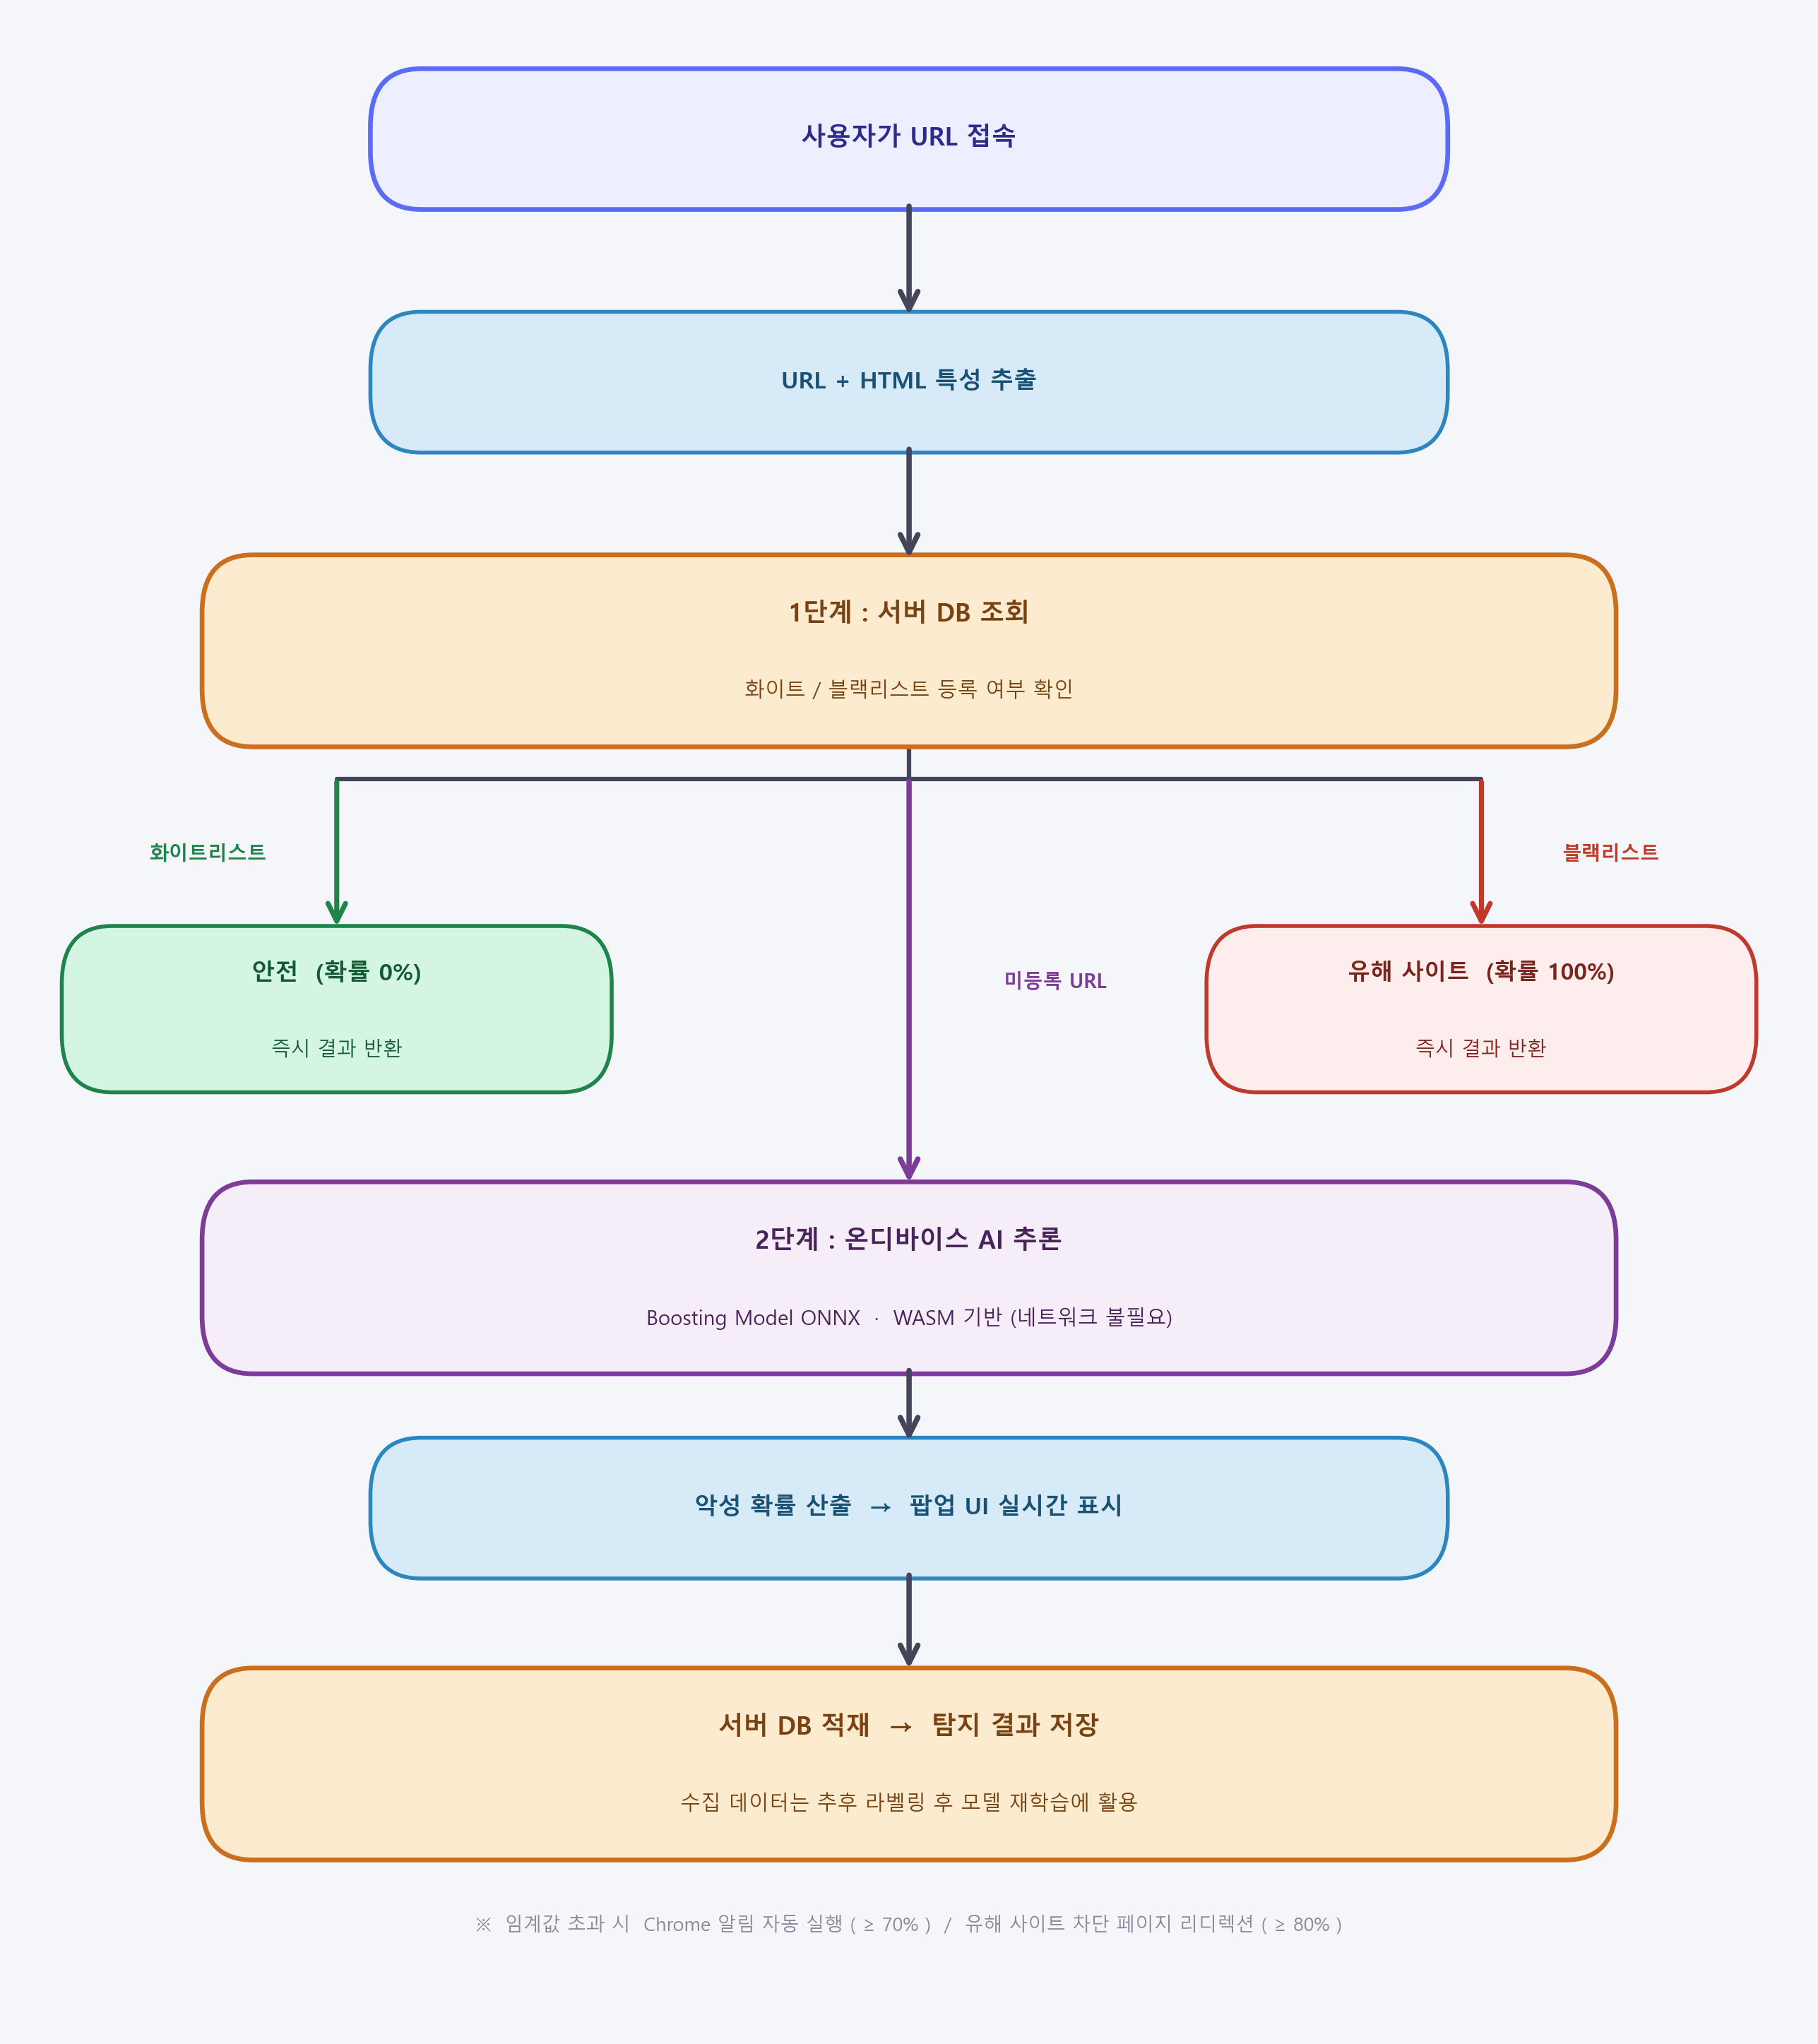
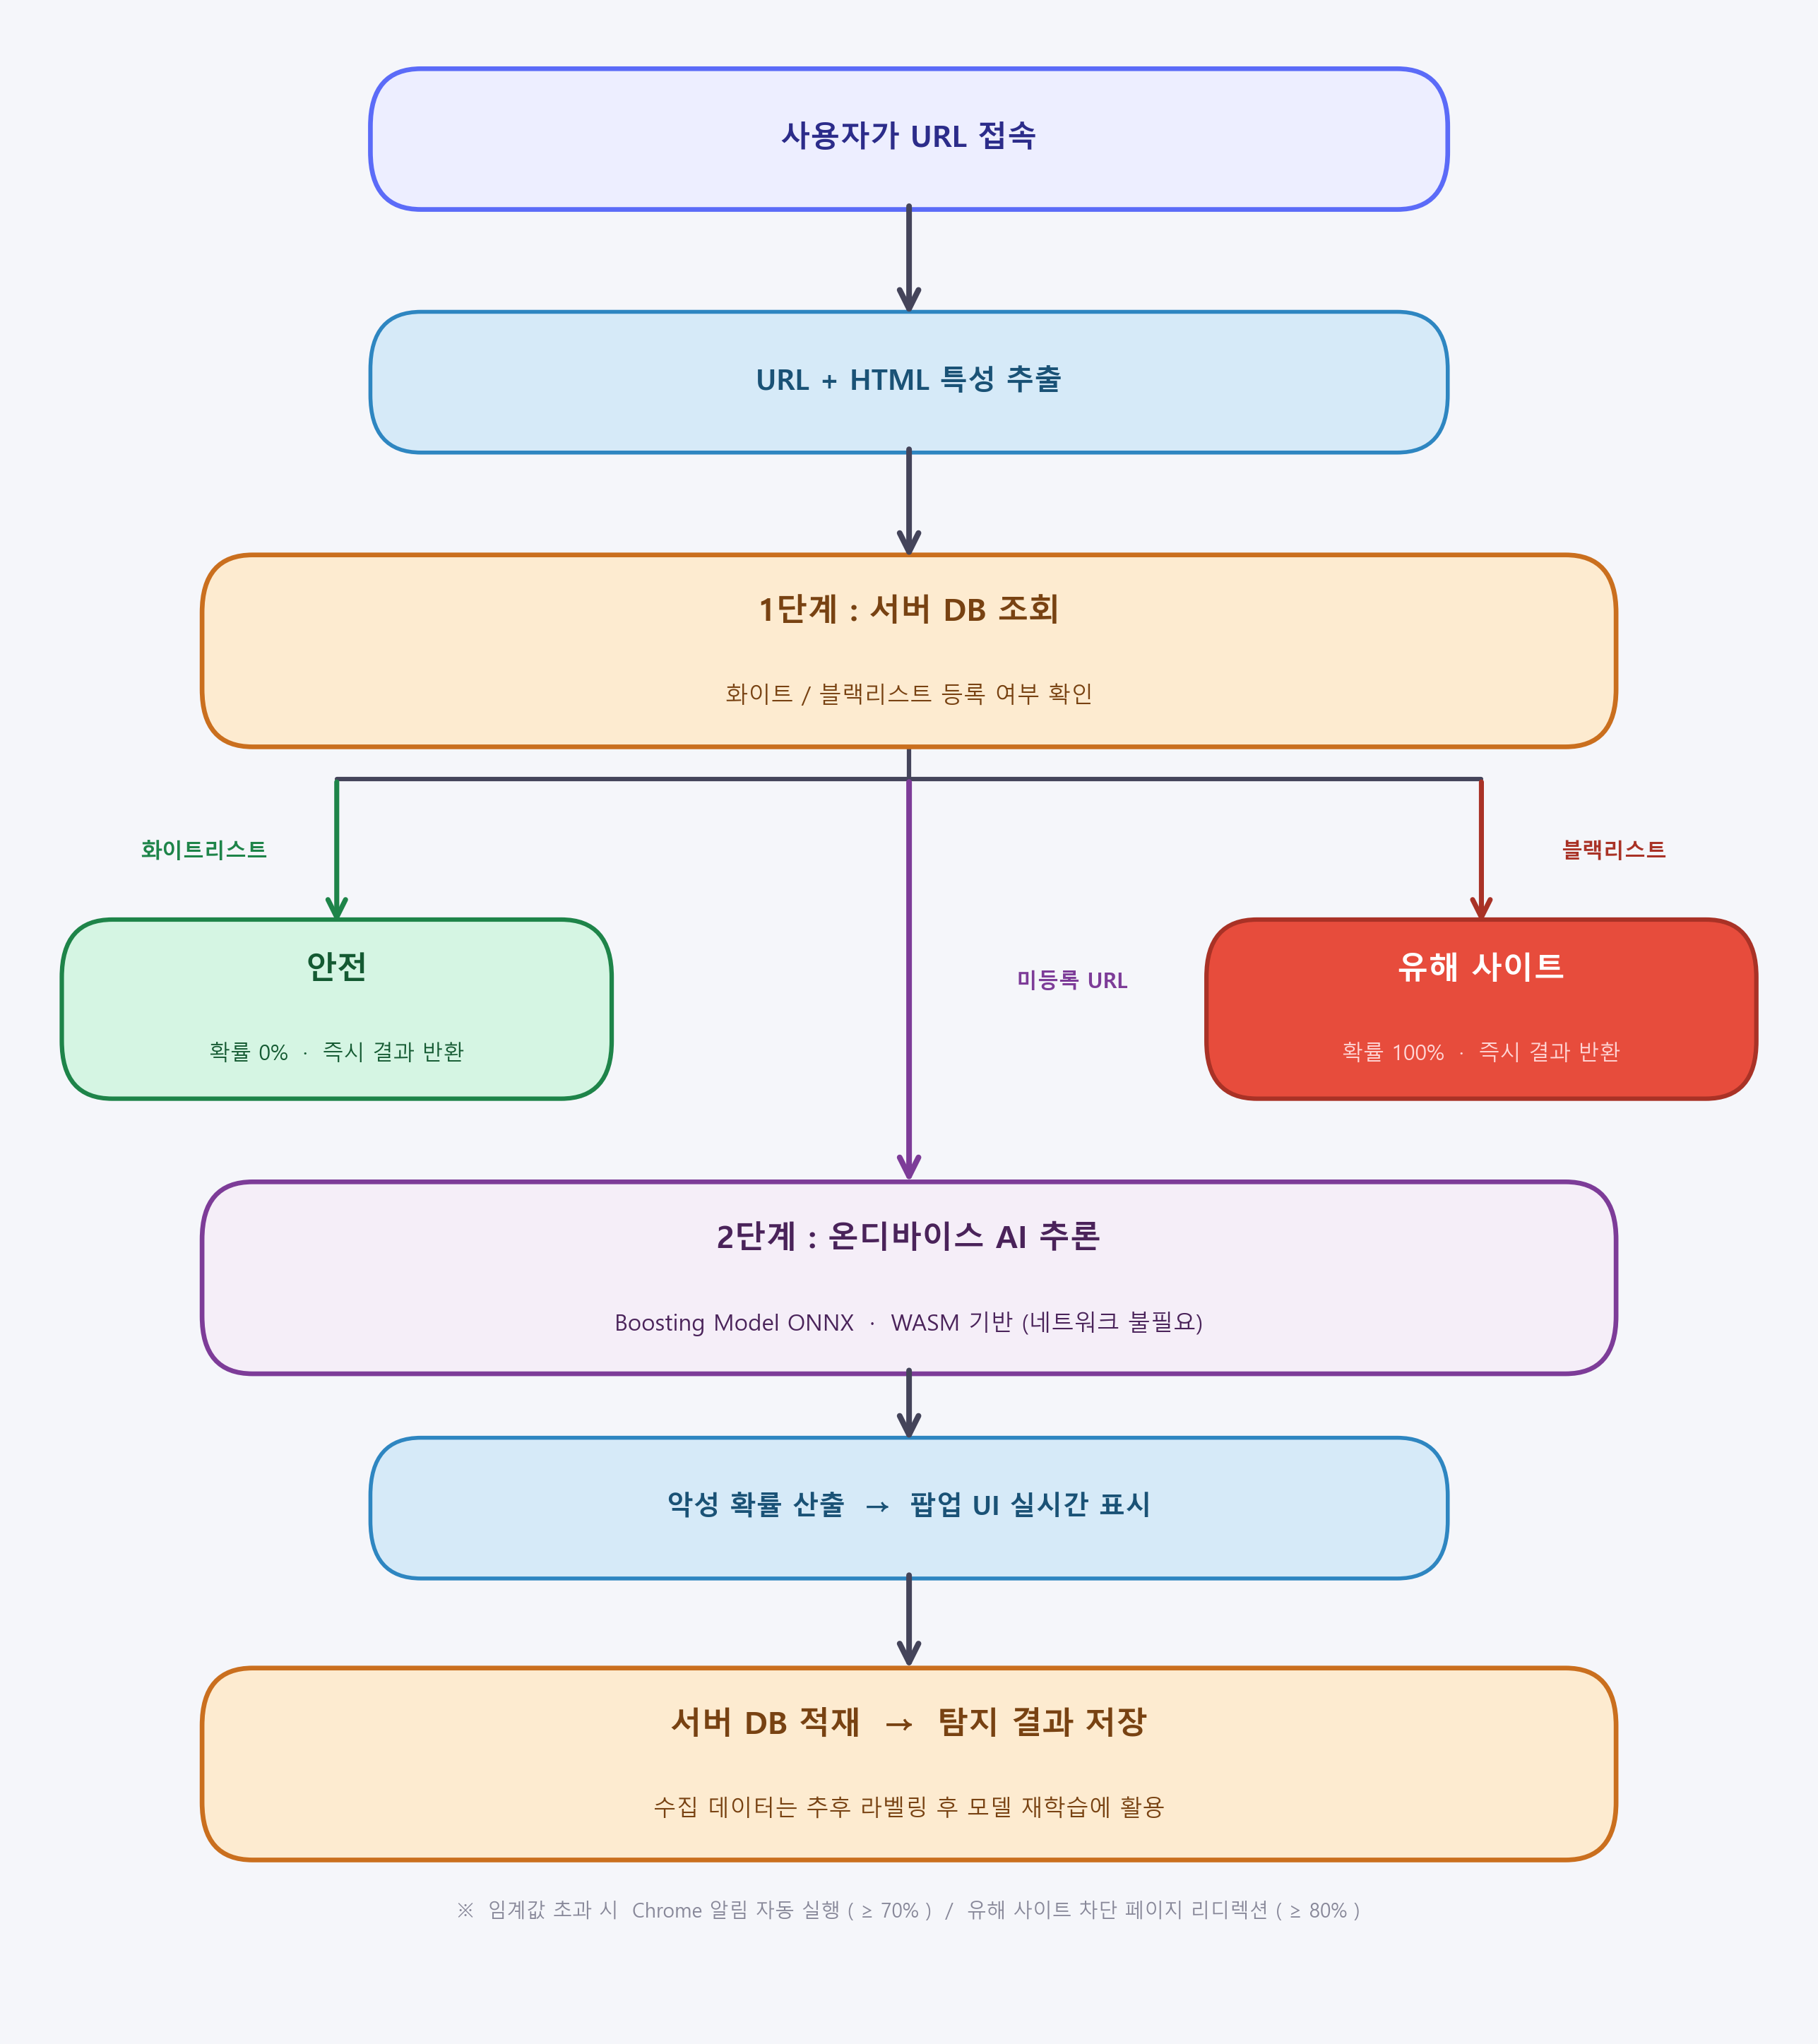
improve diagram readability and upgrade README structure
- diagram: increase font sizes (ts 17-20), solid red fill for 유해사이트 box
- README: add 주요기능 section, expand 개요 with 2-stage explanation,
  add Proprietary badge, improve 기술구성 with MV3 Offscreen note

diff --git a/gen_arch.py b/gen_arch.py
@@ -17,30 +17,30 @@ NEU_EC='#5B6BF8'; NEU_FC='#EDEEFF'; NEU_TX='#2C2C8A'
 BLU_EC='#2E86C1'; BLU_FC='#D6EAF8'; BLU_TX='#1A5276'
 AMB_EC='#CA6F1E'; AMB_FC='#FDEBD0'; AMB_TX='#784212'
 GRN_EC='#1E8449'; GRN_FC='#D5F5E3'; GRN_TX='#145A32'
-RED_EC='#C0392B'; RED_FC='#FDEDEC'; RED_TX='#7B241C'
+RED_EC='#A93226'; RED_FC='#E74C3C'; RED_TX='#FFFFFF'   # solid red fill, white text
 PUR_EC='#7D3C98'; PUR_FC='#F5EEF8'; PUR_TX='#4A235A'
 INK  ='#1A1A2E'; SUB='#3A3A4A'; ARROW='#44445A'
 
 def box(ax, cx, cy, w, h, title, sub=None,
         fc='#FFF', ec='#AAA', lw=2.5,
-        ts=15, tc=INK, ss=12.5, sc=SUB, r=0.45):
+        ts=17, tc=INK, ss=14, sc=SUB, r=0.45):
     ax.add_patch(FancyBboxPatch(
         (cx-w/2, cy-h/2), w, h,
         boxstyle=f"round,pad=0.05,rounding_size={r}",
         facecolor=fc, edgecolor=ec, linewidth=lw, zorder=3))
-    ty = cy + (0.28 if sub else 0)
+    ty = cy + (0.30 if sub else 0)
     ax.text(cx, ty, title, ha='center', va='center',
             fontsize=ts, fontweight='bold', color=tc, zorder=4)
     if sub:
-        ax.text(cx, cy-0.32, sub, ha='center', va='center',
+        ax.text(cx, cy-0.36, sub, ha='center', va='center',
                 fontsize=ss, color=sc, zorder=4)
 
-def arr(ax, x1, y1, x2, y2, color=ARROW, lw=3.4, ms=28):
+def arr(ax, x1, y1, x2, y2, color=ARROW, lw=3.6, ms=30):
     ax.annotate('', xy=(x2, y2), xytext=(x1, y1),
                 arrowprops=dict(arrowstyle='->', color=color,
                                 lw=lw, mutation_scale=ms), zorder=5)
 
-def lbl(ax, x, y, text, color, fs=12.5):
+def lbl(ax, x, y, text, color, fs=13.5):
     ax.text(x, y, text, ha='center', va='center',
             fontsize=fs, fontweight='bold', color=color, zorder=6)
 
@@ -53,8 +53,8 @@ RX = 13.1    # blacklist x
 
 Y_USER   = 20.0
 Y_FEAT   = 18.1
-Y_DB1    = 16.0   # center of DB box  (height=1.4 → top 16.7, bot 15.3)
-BLINE    = 15.0   # horizontal T-line y  (well below DB box bottom)
+Y_DB1    = 16.0   # center of DB box (h=1.4 → top 16.7, bot 15.3)
+BLINE    = 15.0   # horizontal T-line
 Y_WL     = 13.2   # branch result boxes
 Y_BL     = 13.2
 Y_AI     = 11.1
@@ -63,19 +63,19 @@ Y_STORE  =  7.3
 
 # ── 1. 사용자 URL 접속 ─────────────────────────────────────
 box(ax, CX, Y_USER, MW, 1.0, '사용자가 URL 접속',
-    fc=NEU_FC, ec=NEU_EC, lw=3.0, ts=16, tc=NEU_TX)
+    fc=NEU_FC, ec=NEU_EC, lw=3.0, ts=19, tc=NEU_TX)
 arr(ax, CX, Y_USER-0.5, CX, Y_FEAT+0.5)
 
 # ── 2. URL + HTML 특성 추출 ────────────────────────────────
 box(ax, CX, Y_FEAT, MW, 1.0, 'URL + HTML 특성 추출',
-    fc=BLU_FC, ec=BLU_EC, lw=2.5, ts=15, tc=BLU_TX)
+    fc=BLU_FC, ec=BLU_EC, lw=2.5, ts=18, tc=BLU_TX)
 arr(ax, CX, Y_FEAT-0.5, CX, Y_DB1+0.7)
 
 # ── 3. 1단계: 서버 DB 조회 ──────────────────────────────────
 box(ax, CX, Y_DB1, MW+3.0, 1.4,
     '1단계 : 서버 DB 조회',
     sub='화이트 / 블랙리스트 등록 여부 확인',
-    fc=AMB_FC, ec=AMB_EC, lw=3.0, ts=16, tc=AMB_TX, ss=13, sc=AMB_TX)
+    fc=AMB_FC, ec=AMB_EC, lw=3.0, ts=20, tc=AMB_TX, ss=14.5, sc=AMB_TX)
 
 # short vertical line from DB bottom to T-line
 ax.plot([CX, CX], [Y_DB1-0.7, BLINE],
@@ -84,54 +84,54 @@ ax.plot([CX, CX], [Y_DB1-0.7, BLINE],
 ax.plot([LX, RX], [BLINE, BLINE],
         color=ARROW, lw=2.8, solid_capstyle='round', zorder=2)
 
-# ── branch arrows ───────────────────────────────────────────
-arr(ax, LX, BLINE, LX, Y_WL+0.62, color=GRN_EC, lw=3.2)
-arr(ax, RX, BLINE, RX, Y_BL+0.62, color=RED_EC, lw=3.2)
+# ── Branch arrows ───────────────────────────────────────────
+arr(ax, LX, BLINE, LX, Y_WL+0.65, color=GRN_EC, lw=3.2, ms=28)
+arr(ax, RX, BLINE, RX, Y_BL+0.65, color=RED_EC, lw=3.2, ms=28)
 
-# branch labels → positioned on the arrows (left/right side)
-mid_L = (BLINE + Y_WL + 0.62) / 2
-mid_R = (BLINE + Y_BL + 0.62) / 2
-lbl(ax, LX - 1.15, mid_L, '화이트리스트', GRN_EC, fs=12.5)
-lbl(ax, RX + 1.15, mid_R, '블랙리스트',   RED_EC, fs=12.5)
+# branch labels (on the sides of arrows)
+mid_L = (BLINE + Y_WL + 0.65) / 2
+mid_R = (BLINE + Y_BL + 0.65) / 2
+lbl(ax, LX - 1.18, mid_L, '화이트리스트', GRN_EC, fs=13.5)
+lbl(ax, RX + 1.18, mid_R, '블랙리스트',   RED_EC, fs=13.5)
 
 # center arrow (미등록 URL)
-arr(ax, CX, BLINE, CX, Y_AI+0.72, color=PUR_EC, lw=3.4)
+arr(ax, CX, BLINE, CX, Y_AI+0.72, color=PUR_EC, lw=3.6, ms=30)
 mid_C = (BLINE + Y_AI + 0.72) / 2
-lbl(ax, CX + 1.3, mid_C, '미등록 URL', PUR_EC, fs=12.5)
+lbl(ax, CX + 1.45, mid_C, '미등록 URL', PUR_EC, fs=13.5)
 
 # ── 3-L: 안전 (화이트리스트) ───────────────────────────────
-box(ax, LX, Y_WL, BW, 1.2,
-    '안전  (확률 0%)', sub='즉시 결과 반환',
-    fc=GRN_FC, ec=GRN_EC, lw=2.5, ts=15, tc=GRN_TX, ss=12.5, sc=GRN_TX)
+box(ax, LX, Y_WL, BW, 1.3,
+    '안전', sub='확률 0%  ·  즉시 결과 반환',
+    fc=GRN_FC, ec=GRN_EC, lw=2.8, ts=20, tc=GRN_TX, ss=13.5, sc=GRN_TX)
 
-# ── 3-R: 위험 (블랙리스트) ────────────────────────────────
-box(ax, RX, Y_BL, BW, 1.2,
-    '유해 사이트  (확률 100%)', sub='즉시 결과 반환',
-    fc=RED_FC, ec=RED_EC, lw=2.5, ts=14.5, tc=RED_TX, ss=12.5, sc=RED_TX)
+# ── 3-R: 유해 사이트 (블랙리스트) — solid red ──────────────
+box(ax, RX, Y_BL, BW, 1.3,
+    '유해 사이트', sub='확률 100%  ·  즉시 결과 반환',
+    fc=RED_FC, ec=RED_EC, lw=2.8, ts=20, tc=RED_TX, ss=13.5, sc='#FFD6D6')
 
 # ── 4. 2단계: 온디바이스 AI 추론 ───────────────────────────
 box(ax, CX, Y_AI, MW+3.0, 1.4,
     '2단계 : 온디바이스 AI 추론',
     sub='Boosting Model ONNX  ·  WASM 기반 (네트워크 불필요)',
-    fc=PUR_FC, ec=PUR_EC, lw=3.0, ts=16, tc=PUR_TX, ss=13, sc=PUR_TX)
+    fc=PUR_FC, ec=PUR_EC, lw=3.0, ts=20, tc=PUR_TX, ss=14.5, sc=PUR_TX)
 arr(ax, CX, Y_AI-0.7, CX, Y_PROB+0.5)
 
 # ── 5. 악성 확률 & 팝업 표시 ──────────────────────────────
 box(ax, CX, Y_PROB, MW, 1.0,
     '악성 확률 산출  →  팝업 UI 실시간 표시',
-    fc=BLU_FC, ec=BLU_EC, lw=2.5, ts=15, tc=BLU_TX)
+    fc=BLU_FC, ec=BLU_EC, lw=2.5, ts=17, tc=BLU_TX)
 arr(ax, CX, Y_PROB-0.5, CX, Y_STORE+0.72)
 
 # ── 6. 서버 DB 적재 ────────────────────────────────────────
 box(ax, CX, Y_STORE, MW+3.0, 1.4,
     '서버 DB 적재  →  탐지 결과 저장',
     sub='수집 데이터는 추후 라벨링 후 모델 재학습에 활용',
-    fc=AMB_FC, ec=AMB_EC, lw=3.0, ts=16, tc=AMB_TX, ss=13, sc=AMB_TX)
+    fc=AMB_FC, ec=AMB_EC, lw=3.0, ts=20, tc=AMB_TX, ss=14.5, sc=AMB_TX)
 
 # ── footer ──────────────────────────────────────────────────
-ax.text(CX, 6.0,
+ax.text(CX, 6.1,
         '※  임계값 초과 시  Chrome 알림 자동 실행 ( ≥ 70% )  /  유해 사이트 차단 페이지 리디렉션 ( ≥ 80% )',
-        ha='center', fontsize=12, color='#888899', style='italic', zorder=6)
+        ha='center', fontsize=12.5, color='#888899', style='italic', zorder=6)
 
 plt.tight_layout(pad=0.4)
 out = r'C:\Users\gkckd\OneDrive\Desktop\정민 개인\pillsang-chrome-extension\assets\architecture.png'

diff --git a/README.md b/README.md
@@ -6,6 +6,7 @@
 [![Status](https://img.shields.io/badge/Status-심사_중-blue?style=flat-square)]()
 [![Model](https://img.shields.io/badge/Model-Boosting_Model_ONNX-FFCC00?style=flat-square)]()
 [![Runtime](https://img.shields.io/badge/Runtime-Manifest_V3-4285F4?style=flat-square&logo=googlechrome&logoColor=white)]()
+[![License](https://img.shields.io/badge/License-Proprietary-red?style=flat-square)]()
 
 > 코드는 상업 서비스 보안상 비공개입니다.
 
@@ -13,8 +14,24 @@
 
 ## 개요
 
-방문하는 모든 URL을 실시간으로 분석하여 **서버 DB 조회 → 온디바이스 ONNX 추론**의 2단계로 피싱·유해 사이트를 탐지합니다.  
-서버 API 2개(조회 / 적재)를 연동하며, 추론 결과를 DB에 지속 누적합니다. 수집된 데이터는 추후 라벨링 과정을 거쳐 모델 재학습에 활용되며, 이를 통해 탐지 성능을 지속적으로 개선하는 구조를 갖추고 있습니다.
+방문하는 모든 URL을 실시간으로 분석하여 **서버 DB 조회 → 온디바이스 ONNX 추론**의 2단계로 피싱·유해 사이트를 탐지합니다.
+
+- **1단계 (서버 DB 조회)**: 화이트/블랙리스트에 등록된 URL은 AI 추론 없이 즉시 결과를 반환합니다. 불필요한 추론 단계를 생략해 응답 속도를 최소화합니다.
+- **2단계 (온디바이스 AI 추론)**: 미등록 URL은 ONNX WASM 모델로 브라우저 내에서 직접 추론합니다. 개인 브라우징 데이터가 외부 서버로 전송되지 않아 프라이버시를 보호합니다.
+- **데이터 파이프라인**: 추론 결과는 서버 DB에 누적 수집되며, 라벨링 후 모델 재학습에 활용해 탐지 성능을 지속적으로 개선하는 구조입니다.
+
+---
+
+## 주요 기능
+
+| 기능 | 설명 |
+|------|------|
+| 🔍 **2단계 실시간 탐지** | 서버 DB 조회 → 온디바이스 AI 추론으로 모든 URL 실시간 분석 |
+| ⚡ **즉시 판별** | 화이트/블랙리스트 등록 URL은 AI 추론 없이 즉시 결과 반환 |
+| 🧠 **온디바이스 AI** | ONNX WASM — 외부 서버 통신 없이 브라우저 내 실시간 추론 |
+| 🔔 **자동 알림 · 차단** | 임계값 초과 시 Chrome 알림 + 유해 사이트 차단 페이지 자동 리디렉션 |
+| 📊 **탐지 히스토리** | 일간 / 주간 통계 도넛 차트 + 판정별 카테고리 필터링 |
+| ⚙️ **맞춤 설정** | 알림 · 차단 임계값 슬라이더 개별 조정, 다크모드, 히스토리 초기화 |
 
 ---
 
@@ -28,7 +45,7 @@
 
 ## 보안 탭 — 6가지 판정 케이스
 
-화이트/블랙리스트 등록 URL은 DB 조회 후 즉시 결과를 반환하고, 미등록 URL은 온디바이스 AI 추론을 거쳐 확률에 따라 4단계로 판정합니다.
+화이트/블랙리스트 등록 URL은 DB 조회 후 즉시 결과를 반환하고, 미등록 URL은 온디바이스 AI 추론을 거쳐 악성 확률에 따라 4단계로 판정합니다.
 
 | 케이스 | 악성 확률 | 판정 |
 |--------|-----------|------|
@@ -99,8 +116,8 @@
 
 | API | 방식 | 역할 |
 |-----|------|------|
-| **DB 조회 API** | `GET` | 접속 URL이 화이트/블랙리스트에 등록되어 있는지 조회 |
-| **DB 적재 API** | `POST` | ONNX 추론 결과(URL · 특성 · 예측값)를 서버 DB에 저장 · 수집 데이터는 추후 라벨링을 거쳐 모델 재학습에 활용 |
+| **DB 조회 API** | `GET` | 접속 URL의 화이트 / 블랙리스트 등록 여부 조회 후 즉시 결과 반환 |
+| **DB 적재 API** | `POST` | ONNX 추론 결과(URL · 특성 · 예측값)를 서버 DB에 저장 — 수집 데이터는 추후 라벨링 후 모델 재학습에 활용 |
 
 > 두 API 모두 서버 전문가와 협업하여 설계 · 연동하였으며, JS 난독화 및 암호화를 적용하여 보안 처리했습니다 (세부 기법 비공개).
 
@@ -108,20 +125,22 @@
 
 ## 기술 구성
 
-| 구성 요소 | 설명 |
+| 구성 요소 | 역할 |
 |-----------|------|
-| `content.js` | 페이지 로드 시 URL + HTML 특성 추출, background로 전달 |
-| `background.js` | Service Worker — DB 조회 API 호출 / ONNX 추론 흐름 제어 |
-| `offscreen.js` | Offscreen Document — Boosting Model ONNX WASM 런타임 실행 |
-| `popup.js` | 탐지 결과 UI 렌더링 (보안 / 히스토리 / 설정 탭) |
-| `Boosting Model ONNX` | WASM 기반 온디바이스 추론 (네트워크 불필요) |
+| `content.js` | 페이지 로드 시 URL + HTML 특성 추출 후 background로 전달 |
+| `background.js` | Service Worker — DB 조회 API 호출 및 ONNX 추론 흐름 총괄 제어 |
+| `offscreen.js` | Offscreen Document — Boosting Model ONNX WASM 런타임 실행 (MV3 제약 우회) |
+| `popup.js` | 탐지 결과 UI 렌더링 — 보안 · 히스토리 · 설정 3탭 구성 |
+| `Boosting Model ONNX` | WASM 기반 온디바이스 추론 모델 — 네트워크 없이 브라우저 내 실행 |
+
+> Manifest V3의 Service Worker는 백그라운드 지속 실행이 불가하므로, ONNX WASM 런타임은 Offscreen Document를 통해 별도 격리 환경에서 실행합니다.
 
 ---
 
 ## 개발 특이사항
 
-- **Manifest V3** 기반 — Service Worker + Offscreen Document 구조로 ONNX WASM 실행
-- **온디바이스 추론** — 모델이 클라이언트에 탑재되어 네트워크 없이 추론 가능
-- **데이터 수집 파이프라인** — 추론 결과를 서버 DB에 누적하여 추후 라벨링 후 모델 재학습에 활용, 탐지 성능 지속 개선 목적
+- **Manifest V3 구조 설계** — Service Worker + Offscreen Document 조합으로 ONNX WASM 런타임 실행 환경 구성
+- **온디바이스 추론** — 모델이 클라이언트에 탑재되어 외부 서버 전송 없이 브라우저 내 실시간 추론 가능
+- **데이터 수집 파이프라인** — 추론 결과를 서버 DB에 지속 누적하여 추후 라벨링 후 모델 재학습에 활용, 탐지 성능의 점진적 개선을 목표
 - **보안 처리** — JS 난독화 및 암호화 적용 (세부 기법 비공개)
-- **단독 개발** — 기획 · 모델 설계 · 확장프로그램 개발 · API 연동 · 심사 제출 전 과정 수행
+- **단독 개발** — 기획 · 데이터 수집 · 모델 설계 · 확장프로그램 개발 · API 연동 · Chrome Web Store 심사 제출 전 과정 수행